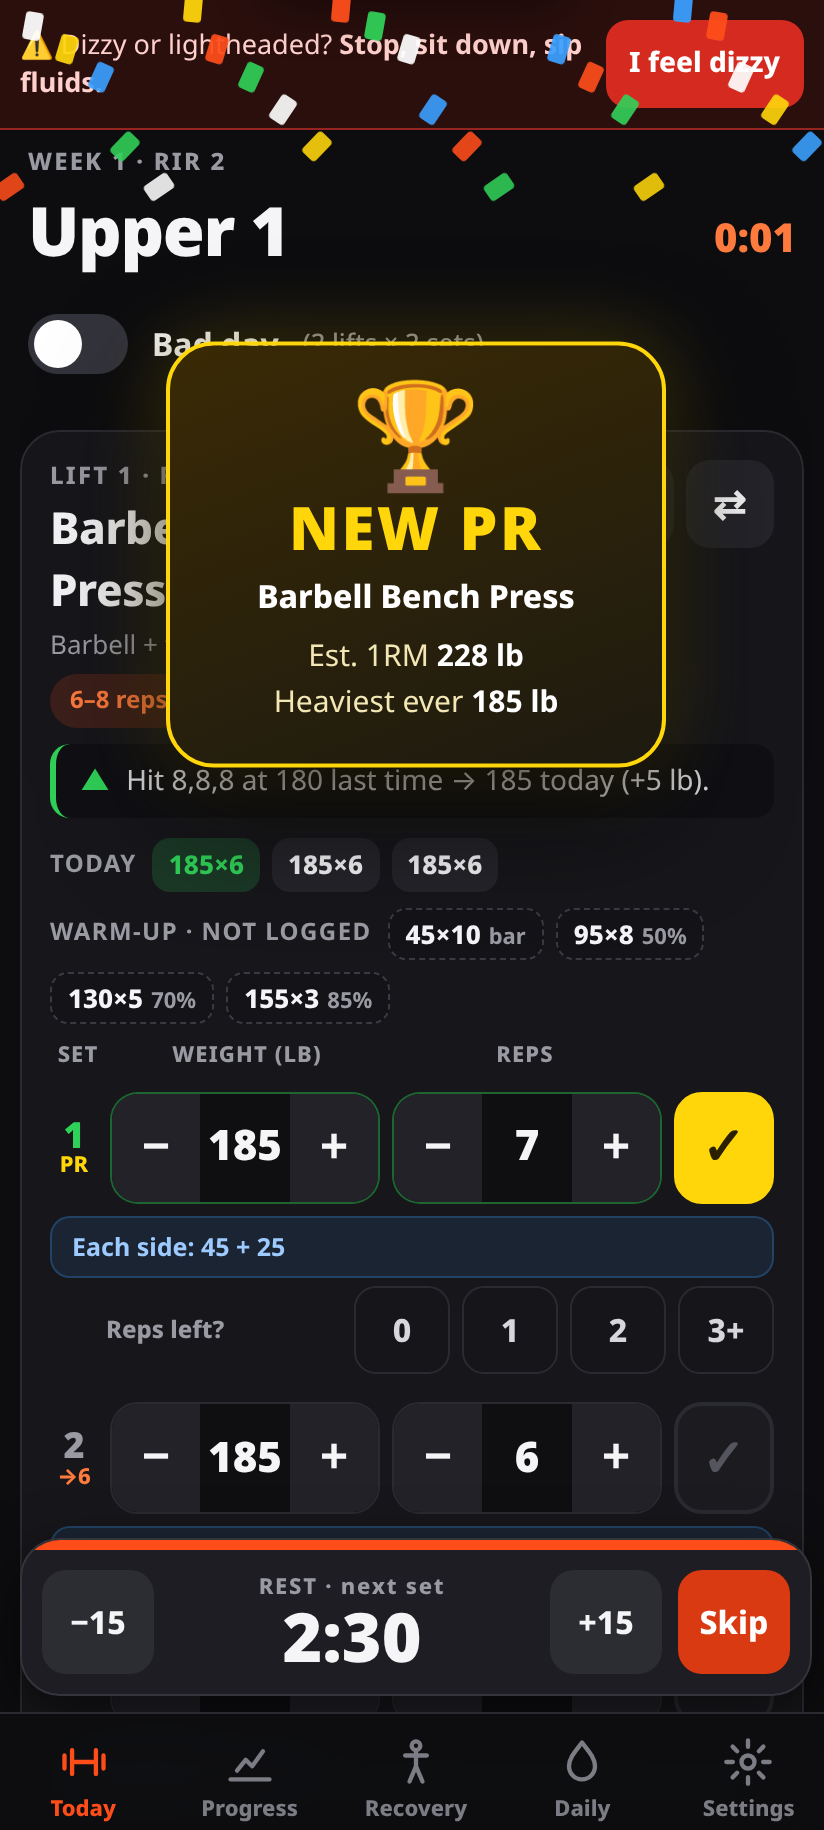
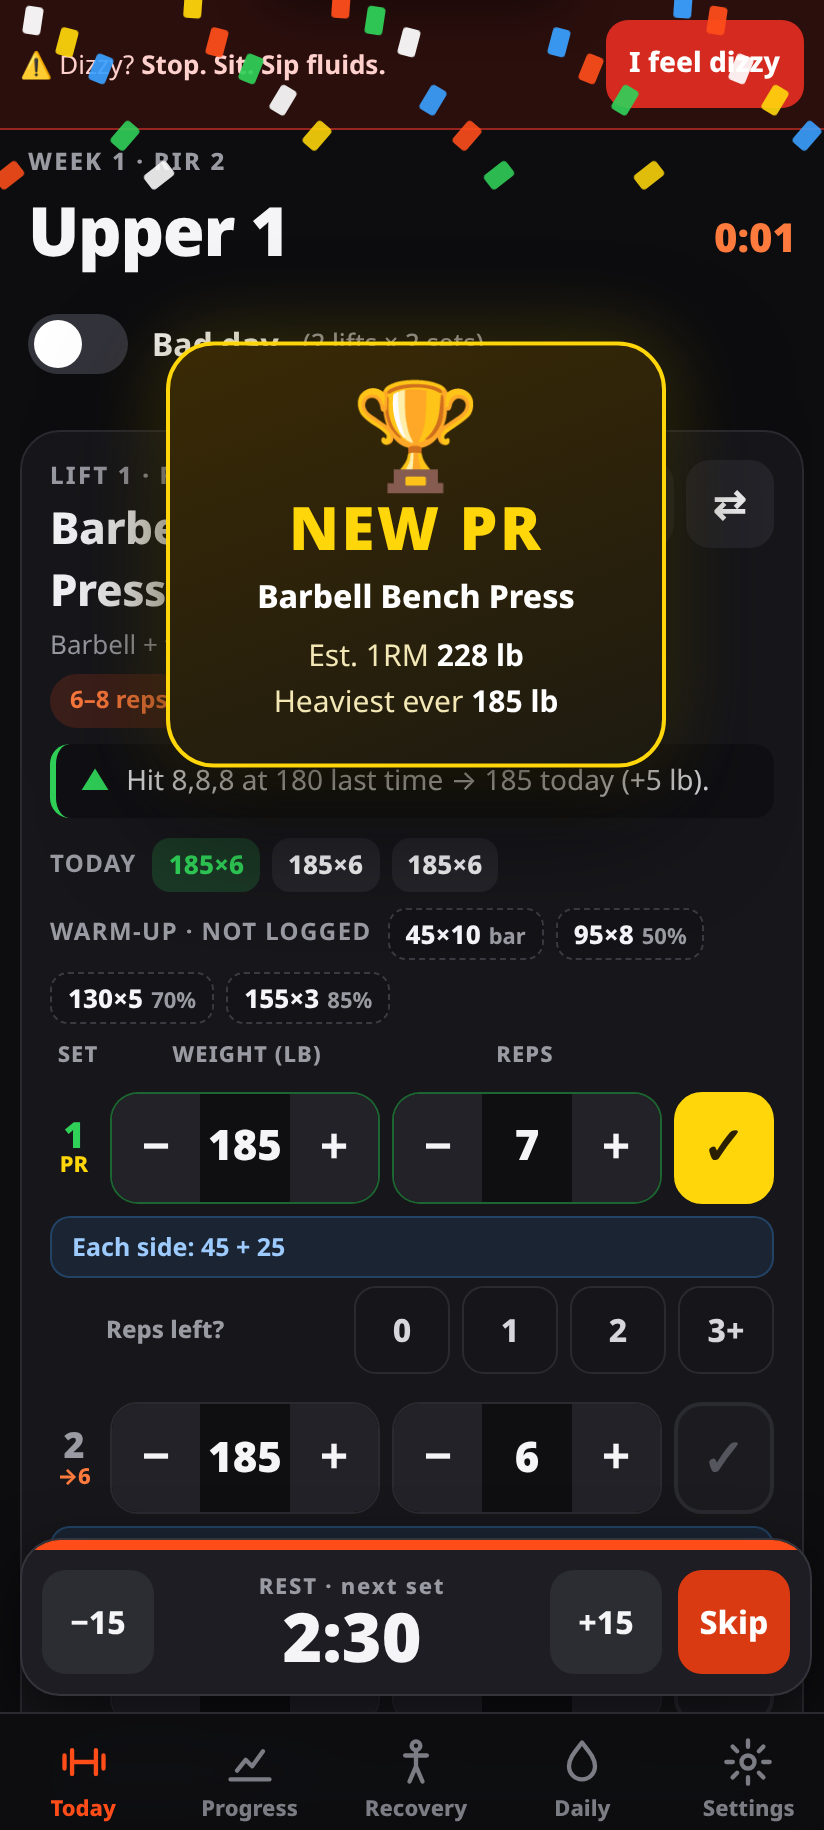
v1.5.1: Coach Dre ranked swaps only — no weight carry-over, lean swap sheet
- DRE_SWAPS: exactly 3 ranked alternatives per primary lift; added missing LA Fitness exercises
- Swap logs its own history; first time = pick weight for bottom of range at RIR 2 (no conversion)
- Lean swap sheet (no all-exercises list); trap-bar blocks tagged as likely default
- Compact always-visible dizzy stop on every workout
- Tests/e2e/QA; SW cache rep-v1.5.1; refresh screenshots 22–23

diff --git a/src/exercises.js b/src/exercises.js
@@ -1,7 +1,7 @@
 // ============================================================================
 //  EXERCISE LIBRARY — LA Fitness-friendly equipment.
 //  region: 'upper' | 'lower'  (drives +5 / +10 lb progression)
-//  pattern: used to suggest swaps (same pattern = sensible substitute)
+//  pattern: movement pattern · swaps: Coach Dre ranked lists in DRE_SWAPS
 //  primary/secondary: muscle ids used by the recovery map
 //  demo: YouTube search query (we link out; no hotlinked/copyrighted media)
 // ============================================================================
@@ -31,7 +31,7 @@ export const EXERCISES = [
     ['chest'], ['front_delts', 'triceps'],
     ['Kick DBs up from thighs as you lie back.', 'Lower to chest level, elbows ~45°.',
      'Press up, bring DBs together without clanking.'], { perHand: true , equip: 'db' }),
-  E('machine_chest_press', 'Machine Chest Press', 'Chest press machine', 'upper', 'h_push',
+  E('machine_chest_press', 'Hammer Strength / Machine Chest Press', 'Hammer Strength / chest press machine', 'upper', 'h_push',
     ['chest'], ['front_delts', 'triceps'],
     ['Seat so handles line up with mid-chest.', 'Back flat on pad, shoulders down.', 'Smooth press; control the return.'], { equip: 'machine' }),
   // ---- Incline push
@@ -155,6 +155,56 @@ export const EXERCISES = [
     ['glutes'], ['hamstrings'], ['Bar padded over hips.', 'Drive up to flat torso.', 'Squeeze 1 sec.'], { equip: 'smith' }),
   E('glute_drive_machine', 'Hip Thrust Machine', 'Glute drive / hip thrust machine', 'lower', 'glute',
     ['glutes'], ['hamstrings'], ['Belt over hips.', 'Drive up, squeeze.', 'Control down.'], { equip: 'machine' }),
+  // ---- Dre swap additions
+  E('chest_supported_tbar_row', 'Chest-Supported T-Bar Row', 'T-bar / chest-supported row', 'upper', 'h_pull',
+    ['upper_back', 'lats'], ['rear_delts', 'biceps'],
+    ['Chest glued to the pad.', 'Pull elbows back toward hips.', 'Squeeze at the top; control the stretch.'], { equip: 'machine' }),
+  E('machine_row', 'Hammer Strength / Machine Row', 'Hammer Strength / plate-loaded row', 'upper', 'h_pull',
+    ['upper_back', 'lats'], ['rear_delts', 'biceps'],
+    ['Chest on pad, neutral grip if available.', 'Pull handles to lower ribs.', 'Don’t shrug; control the return.'], { equip: 'machine' }),
+  E('landmine_press', 'Standing Landmine Press', 'Landmine / barbell in corner', 'upper', 'v_push',
+    ['front_delts'], ['chest', 'triceps', 'abs'],
+    ['Bar in landmine or corner; hold end at shoulder.', 'Press up and slightly forward.', 'Brace core; don’t lean back hard.'], { equip: 'barbell', perHand: true }),
+  E('goblet_box_squat', 'Goblet Squat to Box', 'Dumbbell + box/bench', 'lower', 'squat',
+    ['quads', 'glutes'], ['adductors', 'abs'],
+    ['Hold DB at chest.', 'Sit lightly to the box — don’t crash.', 'Drive up through mid-foot, chest tall.'], { equip: 'db' }),
+  E('smith_rdl', 'Smith Romanian Deadlift', 'Smith machine', 'lower', 'hinge',
+    ['hamstrings', 'glutes'], ['lower_back'],
+    ['Bar against thighs, soft knees.', 'Hips back; bar slides down legs.', 'Flat back; squeeze glutes to stand.'], { equip: 'smith' }),
+  E('back_extension_45', 'Loaded 45° Back Extension', '45-degree back extension + plate/DB', 'lower', 'hinge',
+    ['hamstrings', 'glutes', 'lower_back'], [],
+    ['Pad at hip crease.', 'Hinge down with flat back.', 'Squeeze glutes to rise; don’t hyperextend.'], { equip: 'machine' }),
+  E('smith_squat', 'Smith Squat', 'Smith machine', 'lower', 'squat',
+    ['quads', 'glutes'], ['adductors'],
+    ['Feet slightly forward of the bar.', 'Lower to about parallel.', 'Drive up; set safeties.'], { equip: 'smith' }),
+  E('belt_squat', 'Belt Squat', 'Belt squat machine (if available)', 'lower', 'squat',
+    ['quads', 'glutes'], ['adductors'],
+    ['Belt snug on hips.', 'Stand tall, sit between your feet.', 'Drive up through mid-foot.'], { equip: 'machine' }),
+  E('machine_pulldown', 'Machine Pulldown', 'Plate-loaded / Hammer Strength pulldown', 'upper', 'v_pull',
+    ['lats'], ['upper_back', 'biceps'],
+    ['Thighs locked; chest up.', 'Pull handles to upper chest.', 'Control the stretch at the top.'], { equip: 'machine' }),
+  E('single_arm_cable_pulldown', 'Single-Arm Cable Pulldown', 'Cable + D-handle (high)', 'upper', 'v_pull',
+    ['lats'], ['upper_back', 'biceps'],
+    ['Pull one arm from overhead to lower ribs.', 'Elbow drives down & back.', 'Switch sides; no torso twist.'], { perHand: true, equip: 'cable' }),
+  E('incline_machine_press', 'Incline Machine Press', 'Incline chest press machine', 'upper', 'h_push',
+    ['chest', 'front_delts'], ['triceps'],
+    ['Seat so handles meet upper chest.', 'Shoulder blades back.', 'Press smoothly; control down.'], { equip: 'machine' }),
+  E('incline_bb_press', 'Incline Barbell Press', 'Barbell + incline bench (~30°)', 'upper', 'h_push',
+    ['chest', 'front_delts'], ['triceps'],
+    ['Bench ~30°.', 'Bar to upper chest, elbows slightly tucked.', 'Press up; use safeties or a spotter.'], { equip: 'barbell' }),
+  E('leaning_db_lateral', 'Leaning Single-Arm DB Lateral', 'Dumbbell + rack support', 'upper', 'lat_raise',
+    ['side_delts'], ['traps'],
+    ['Hold a rack and lean away.', 'Raise the free DB to shoulder height.', 'Slow lower; no shrug.'], { perHand: true, isolation: true, equip: 'db' }),
+  E('bb_deadlift_blocks', 'Barbell Deadlift from Blocks', 'Barbell + blocks/pins (above floor)', 'lower', 'hinge',
+    ['glutes', 'hamstrings', 'quads'], ['lower_back', 'traps', 'forearms'],
+    ['Bar starts on blocks/pins around mid-shin.', 'Hips down, chest up, brace.', 'Push floor away; stand tall; control down to blocks.'],
+    { equip: 'barbell', tag: 'Likely default — many LA Fitness locations have no trap bar' }),
+  E('db_reverse_lunge', 'DB Reverse Lunge', 'Dumbbells', 'lower', 'lunge',
+    ['quads', 'glutes'], ['adductors', 'hamstrings'],
+    ['Step back into a long lunge.', 'Front knee tracks over mid-foot.', 'Drive through front foot; alternate or finish one side.'], { perHand: true, equip: 'db' }),
+  E('single_leg_db_hip_thrust', 'Single-Leg DB Hip Thrust', 'Dumbbell + bench', 'lower', 'glute',
+    ['glutes'], ['hamstrings'],
+    ['Upper back on bench; one foot planted.', 'DB on working hip.', 'Drive hips up; squeeze; switch legs. Start light.'], { perHand: true, equip: 'db' }),
   // ---- Extras
   E('cable_triceps_pushdown', 'Cable Triceps Pushdown', 'Cable + rope/bar', 'upper', 'arms',
     ['triceps'], [], ['Elbows pinned at sides.', 'Push down to full lockout.', 'Control up.'], { isolation: true , equip: 'cable' }),
@@ -177,7 +227,24 @@ export function demoUrl(ex) {
   return `https://www.youtube.com/results?search_query=${encodeURIComponent(q)}`;
 }
 
+// Coach Dre's ranked swap lists (exactly 3, in order) for each primary lift.
+export const DRE_SWAPS = {
+  bench_press: ['db_bench_press', 'smith_bench_press', 'machine_chest_press'],
+  chest_supported_row: ['chest_supported_tbar_row', 'seated_cable_row', 'machine_row'],
+  seated_db_shoulder_press: ['machine_shoulder_press', 'smith_shoulder_press', 'landmine_press'],
+  box_squat: ['smith_box_squat', 'hack_squat', 'goblet_box_squat'],
+  romanian_deadlift: ['db_romanian_deadlift', 'smith_rdl', 'back_extension_45'],
+  leg_press: ['hack_squat', 'smith_squat', 'belt_squat'],
+  lat_pulldown: ['machine_pulldown', 'assisted_pullup', 'single_arm_cable_pulldown'],
+  incline_db_press: ['incline_smith_press', 'incline_machine_press', 'incline_bb_press'],
+  cable_lateral_raise: ['db_lateral_raise', 'machine_lateral_raise', 'leaning_db_lateral'],
+  trap_bar_deadlift: ['bb_deadlift_blocks', 'db_deadlift', 'smith_deadlift'],
+  split_squat: ['smith_split_squat', 'db_reverse_lunge', 'bulgarian_split_squat'],
+  hip_thrust: ['smith_hip_thrust', 'glute_drive_machine', 'single_leg_db_hip_thrust'],
+};
+
+/** Dre's ranked swaps for a primary lift (exactly 3). Empty if not a primary. */
 export function alternatives(id) {
-  const ex = exercise(id);
-  return EXERCISES.filter(e => e.id !== id && e.pattern === ex.pattern);
+  const ids = DRE_SWAPS[id] || [];
+  return ids.map(exercise);
 }

diff --git a/src/swap.js b/src/swap.js
@@ -1,88 +1,39 @@
-// Exercise swap helpers: alternatives + conservative starting-weight conversion.
+// Coach Dre exercise swaps: ranked 3 per primary lift. No weight carry-over.
+import { exercise, alternatives, DRE_SWAPS } from './exercises.js';
+import { suggest, engineHistory } from './logic.js';
 
-import { exercise, alternatives as altsByPattern, EXERCISES } from './exercises.js';
-import { equipOf, defaultIncrement, roundTo, e1rm } from './progression.js';
-import { historyFor, suggest, engineHistory, incFor } from './logic.js';
-
+/** Ranked Dre swaps only (exactly 3 for primaries). Lean — no "all exercises" list. */
 export function swapAlternatives(exId) {
-  const same = altsByPattern(exId);
-  const rest = EXERCISES.filter(e => e.id !== exId && !same.includes(e));
-  return { same, rest };
+  const ranked = alternatives(exId);
+  return { ranked, same: ranked, rest: [] };
 }
 
 /**
- * Suggest a starting weight when swapping to `toId`.
- * Prefer the swap's own history; otherwise convert conservatively from the
- * original lift's last top set.
+ * Suggestion when swapping to `toId`.
+ * Same rep range / 3 sets / RIR 2 from the slot.
+ * Uses the swap's OWN history only — never converts weight from the original lift.
+ * No history → first-session guidance (pick weight for bottom of range at RIR 2).
  */
 export function swapSuggestion(fromId, toId, slot, { deload = false, badDay = false } = {}) {
   const to = exercise(toId);
-  const from = exercise(fromId);
+  const sets = 3;
+  const reps = slot.reps || [6, 8];
+  const useSlot = { sets, reps, note: slot.note || '', ex: toId };
   const hist = engineHistory(toId);
+  const sg = suggest(useSlot, { deload, badDay });
   if (hist.length) {
-    const sg = suggest({ ...slot, ex: toId }, { deload, badDay });
-    return { ...sg, source: 'history', note: `Using your ${to.name} history.` };
+    return { ...sg, source: 'history', note: `Logging ${to.name} on its own history.` };
   }
-  // No history — convert from the original lift.
-  const fromHist = historyFor(fromId).filter(h => !h.session.deload && !h.session.badDay);
-  const last = fromHist[0];
-  if (!last) {
-    const sg = suggest({ ...slot, ex: toId }, { deload, badDay });
-    return { ...sg, source: 'fresh', note: 'No history on either lift — set your own starting weight.' };
-  }
-  const top = Math.max(...last.ex.sets.map(s => +s.weight || 0));
-  const topReps = last.ex.sets.find(s => +s.weight === top)?.reps ?? slot.reps[0];
-  const converted = convertWeight(from, to, top);
-  const inc = incFor(toId) || defaultIncrement(to);
-  const weight = roundTo(converted.weight, inc, 'down');
-  const targets = Array(slot.sets).fill(slot.reps[0]);
-  const text = `Swapped from ${from.name} (${top}×${topReps}). ${converted.note} Start ~${weight} lb — go up if it feels easy.`;
+  const lo = reps[0];
+  const text = `First time on ${to.name}: pick a weight for ${lo} reps at RIR 2 (bottom of the ${lo}–${reps[1]} range). This lift keeps its own log — no weight carried from the swap.`;
   return {
-    kind: 'first', first: true, weight, targets, weights: Array(slot.sets).fill(weight),
-    sets: slot.sets, text, jumpNote: '', stall: false, reduce: false, up: false,
-    last: `${top}×${topReps} on ${from.name}`, inc, source: 'converted', note: converted.note,
+    ...sg,
+    kind: 'first', first: true, weight: null,
+    targets: Array(sets).fill(null),
+    weights: Array(sets).fill(null),
+    sets, text, source: 'fresh',
+    note: 'Own history starts now — choose a starting weight.',
   };
 }
 
-/** Conservative equipment/pattern conversion. Returns { weight, note }. */
-export function convertWeight(from, to, fromWeight) {
-  const w = +fromWeight || 0;
-  const fe = equipOf(from), te = equipOf(to);
-  let factor = 1;
-  let note = 'Matched previous load.';
-
-  // Per-hand DBs: from total-ish barbell → per hand ≈ 40%
-  if (!from.perHand && to.perHand) {
-    factor = 0.4;
-    note = 'DB per hand ≈ 40% of the barbell load (conservative).';
-  } else if (from.perHand && !to.perHand) {
-    factor = 2.2;
-    note = 'Barbell ≈ 2.2× the DB-per-hand load (conservative).';
-  } else if (from.perHand && to.perHand) {
-    factor = 1;
-    note = 'Same per-hand load to start.';
-  }
-
-  // Machine/cable vs free weight
-  if ((fe === 'barbell' || fe === 'smith') && (te === 'machine' || te === 'cable')) {
-    factor *= 0.9;
-    note = (note === 'Matched previous load.' ? '' : note + ' ') + 'Machines often feel ~10% lighter — started a bit under.';
-  } else if ((fe === 'machine' || fe === 'cable') && (te === 'barbell' || te === 'smith')) {
-    factor *= 0.85;
-    note = (note === 'Matched previous load.' ? '' : note + ' ') + 'Free weight usually harder — started ~15% under.';
-  } else if (fe !== te && factor === 1) {
-    factor = 0.9;
-    note = 'Different equipment — started ~10% under.';
-  }
-
-  // Assisted pull-up: higher assistance = easier; leave blank-ish low number
-  if (to.assisted) {
-    return { weight: roundTo(Math.max(w * 0.5, 40), defaultIncrement(to), 'down'), note: 'Assisted machine — pick a challenging assistance and adjust.' };
-  }
-  if (from.assisted && !to.assisted) {
-    return { weight: 0, note: 'Coming off assisted — start bodyweight or a light load.' };
-  }
-
-  const out = Math.max(0, w * factor);
-  return { weight: out, note };
-}
+export { DRE_SWAPS };

diff --git a/src/app.js b/src/app.js
@@ -156,7 +156,7 @@ function visible(a) {
 }
 function viewWorkout() {
   const a = state.active;
-  let h = `<div class="safety"><span>⚠ Dizzy or lightheaded? <b>Stop, sit down, sip fluids.</b></span><button class="btn danger sm" data-act="dizzy">I feel dizzy</button></div>`;
+  let h = `<div class="safety" role="status"><span>⚠ Dizzy? <b>Stop. Sit. Sip fluids.</b></span><button class="btn danger sm" data-act="dizzy">I feel dizzy</button></div>`;
   h += `<header class="hero tight"><div class="eyebrow">Week ${a.week}${a.deload ? ' · DELOAD' : ''} · RIR 2</div>
     <div class="row between"><h1>${esc(a.workoutName)}</h1><span class="clock" id="elapsed">0:00</span></div>
     <label class="toggle"><input type="checkbox" data-change="badDay" ${a.badDay ? 'checked' : ''}><span></span>Bad day <small>(2 lifts × 2 sets)</small></label></header>`;
@@ -529,7 +529,7 @@ function viewSettings() {
     <button class="btn danger wide" data-act="resetAll">Erase all data</button>
     <p class="muted sm">${doneSessions().length} sessions · ${state.bodyweight.length} weigh-ins · ${state.dizzyEvents.length} dizziness events · ${state.injections.length} injections · ${state.supplements.length} supplements</p></section>`;
   h += `<section class="card"><h3>Safety</h3><p class="muted sm">Don't lift fasted. Eat carbs + protein 1–2 h before, drink water/electrolytes. If dizzy or lightheaded: stop, sit or lie down, sip fluids, have some fast carbs. Fainting, chest pain, or confusion → call 911. Tell your prescriber about repeated dizziness.</p>
-    <p class="muted sm">Rep v1.5 · personal use</p></section>`;
+    <p class="muted sm">Rep v1.5.1 · personal use</p></section>`;
   return h;
 }
 
@@ -556,16 +556,16 @@ function infoSheet(id) {
 
 function swapSheet(i) {
   const a = state.active; const cur = visible(a)[i].e;
-  const { same, rest } = swapAlternatives(cur.exId);
-  const item = e => {
+  const { ranked } = swapAlternatives(cur.exId);
+  const item = (e, n) => {
     const hasHist = historyFor(e.id).length > 0;
-    return `<li data-act="doSwap" data-i="${i}" data-ex="${e.id}"><b>${esc(e.name)}</b><small>${esc(e.equipment)}${hasHist ? ' · has history' : ' · converts from current'}</small></li>`;
+    const tag = e.tag ? `<span class="chip sm warn">${esc(e.tag)}</span>` : '';
+    return `<li data-act="doSwap" data-i="${i}" data-ex="${e.id}"><span class="exnum">${n}</span><div class="grow"><b>${esc(e.name)}</b><small>${esc(e.equipment)}${hasHist ? ' · own history' : ' · pick starting weight'}</small>${tag}</div></li>`;
   };
-  sheet(`<div class="eyebrow accent">LA Fitness swap</div><h2>Swap ${esc(exercise(cur.exId).name)}</h2>
-    <p class="muted sm">Today only by default. Progression carries over: the swap keeps its own history if you have one; otherwise we suggest a conservative starting weight from this lift.</p>
+  sheet(`<div class="eyebrow accent">Coach Dre swaps</div><h2>Swap ${esc(exercise(cur.exId).name)}</h2>
+    <p class="muted sm">Same reps · 3 sets · RIR 2. Each swap logs its own weight. Today only unless you make it permanent.</p>
     <label class="toggle"><input type="checkbox" id="swapSave"><span></span>Make permanent in the plan</label>
-    <h3>Same movement pattern</h3><ul class="picker">${same.map(item).join('') || '<li class="muted">None</li>'}</ul>
-    <details><summary>All LA Fitness exercises</summary><ul class="picker">${rest.map(item).join('')}</ul></details>
+    <ul class="picker">${ranked.map((e, n) => item(e, n + 1)).join('') || '<li class="muted">No swaps listed</li>'}</ul>
     <button class="btn ghost wide" data-act="closeSheet">Cancel</button>`);
 }
 
@@ -729,16 +729,16 @@ const actions = {
     const fromId = entry.exId; const toId = el.dataset.ex;
     const saveProg = $('#swapSave')?.checked;
     const w = workoutById(a.workoutId);
-    const base = w?.exercises[idx] || { sets: entry.sets?.length || 3, reps: entry.reps };
-    const slot = { sets: base.sets || 3, reps: base.reps || entry.reps, note: base.note || entry.note || '', ex: toId };
+    const base = w?.exercises[idx] || { sets: 3, reps: entry.reps };
+    const slot = { sets: 3, reps: entry.reps || base.reps, note: entry.note || base.note || '', ex: toId };
     const sg = swapSuggestion(fromId, toId, slot, { deload: a.deload, badDay: a.badDay });
     a.exercises[idx] = {
       exId: toId, reps: slot.reps, note: slot.note || '', suggestion: sg, swappedFrom: fromId,
       sets: Array.from({ length: sg.sets }, (_, j) => ({ weight: sg.weights[j] ?? '', reps: sg.targets[j] ?? '', done: false, rir: null })),
     };
-    if (saveProg && w) w.exercises[idx].ex = toId;
+    if (saveProg && w) { w.exercises[idx].ex = toId; w.exercises[idx].sets = 3; w.exercises[idx].reps = slot.reps; }
     save(); closeSheet(); render();
-    toast(saveProg ? `Permanent swap → ${exercise(toId).name}` : `Today: ${exercise(toId).name}`);
+    toast(saveProg ? `Permanent → ${exercise(toId).name}` : `Today: ${exercise(toId).name}`);
   },
   finish: () => finishSession('done'),
   discard: () => { if (confirm('Discard this workout? Logged sets will be lost.')) { state.active = null; stopTimer(); save(); wake(false); render(); } },

diff --git a/styles.css b/styles.css
@@ -265,3 +265,8 @@ input[type=range]{height:44px;accent-color:var(--accent)}
 .stats.four{display:grid;grid-template-columns:repeat(4,1fr);gap:8px;margin:8px 0}
 .stats.four small{display:block;font-size:11px;color:var(--muted);font-weight:700;text-transform:uppercase;letter-spacing:.04em}
 .stats.four b{font-size:18px;font-weight:900}
+
+.picker li{display:flex;align-items:flex-start;gap:10px}
+.picker .exnum{margin-top:2px}
+.picker .chip{margin-top:4px;display:inline-flex}
+.safety{font-size:13px}

diff --git a/sw.js b/sw.js
@@ -1,5 +1,5 @@
 // Offline-first service worker. Bump VERSION when you change files.
-const VERSION = 'rep-v1.5.0';
+const VERSION = 'rep-v1.5.1';
 const ASSETS = [
   './', './index.html', './styles.css', './manifest.json',
   './src/app.js', './src/store.js', './src/logic.js', './src/program.js', './src/exercises.js', './src/body.js', './src/charts.js', './src/progression.js', './src/renpho.js', './src/plates.js', './src/fatloss.js', './src/checkin.js', './src/backup.js', './src/swap.js',

diff --git a/README.md b/README.md
@@ -1,4 +1,4 @@
-# Rep — Boss's workout app (v1.5)
+# Rep — Boss's workout app (v1.5.1)
 
 Personal, mobile-first PWA (not a Fernholt product). Plain static site: vanilla JS ES modules, no framework, no backend, no accounts. All data stays on the phone (localStorage) with JSON Export/Import in Settings.
 
@@ -35,7 +35,7 @@ In-app edits (Settings → Schedule / Program / Targets) are stored on the devic
 - **Weekly check-in for Coach Dre**: Monday card on Today + button on Progress. Builds a plain-text summary (7-day avg weight & change, sessions done/planned, top set + e1RM change per lift, PRs, deload/stall notes, protein vs 210 g, kcal, Tue/Thu/Sun steps vs 6–8k, supplements / tirzepatide, dizziness/sleep/water). **Copy** and **Share** — paste it to Dre.
 - **Plate calculator**: on barbell / trap-bar sets, shows per-side LA Fitness plates (45/35/25/10/5/2.5) for a 45 lb bar (trap bar separately editable in Settings).
 - **Voice + vibration rest timer**: speaks “Rest over, next set” (and a “10 seconds” warning) via `speechSynthesis`, plus vibration; toggles in Settings. Screen wake lock keeps the timer alive during a workout.
-- **Exercise swap**: ⇄ on each lift lists same-pattern LA Fitness alternatives. Today-only by default, or **Make permanent in the plan**. Keeps the swap’s own history when present; otherwise suggests a conservative starting weight converted from the original lift with a short note.
+- **Exercise swap**: ⇄ on each lift shows Coach Dre’s ranked 3 alternatives (exact list in `DRE_SWAPS`). Same rep range · 3 sets · RIR 2. Today-only by default, or **Make permanent in the plan**. Each swap logs its own weight — no carry-over from the original lift; first time = pick a starting weight for the bottom of the range at RIR 2.
 - **Smarter fat-loss tracking**: bodyweight chart overlays a 7-day moving average; shows lb/wk and % bodyweight/week, projected date to 200 lb, and a gentle flag if loss is faster than ~1.5% BW/week for 2+ weeks or several e1RMs are dropping (check protein, tell Coach Dre). No medical claims.
 - **Offline**: service worker caches the app shell.
 
